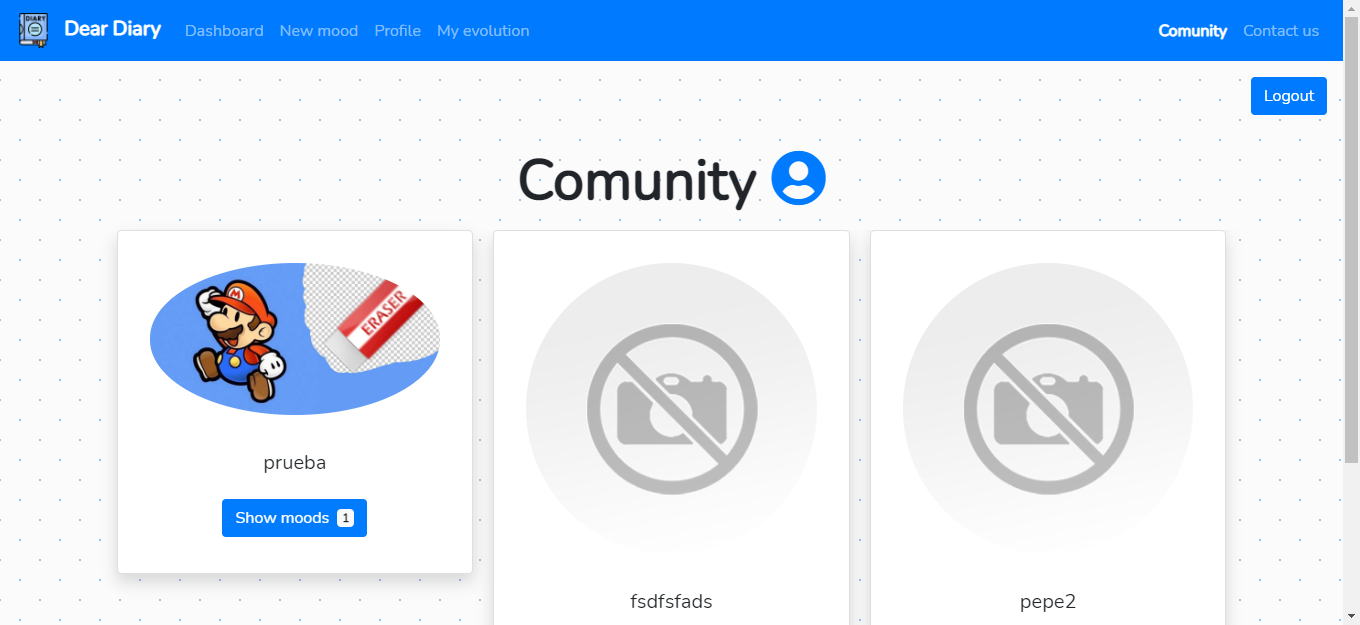
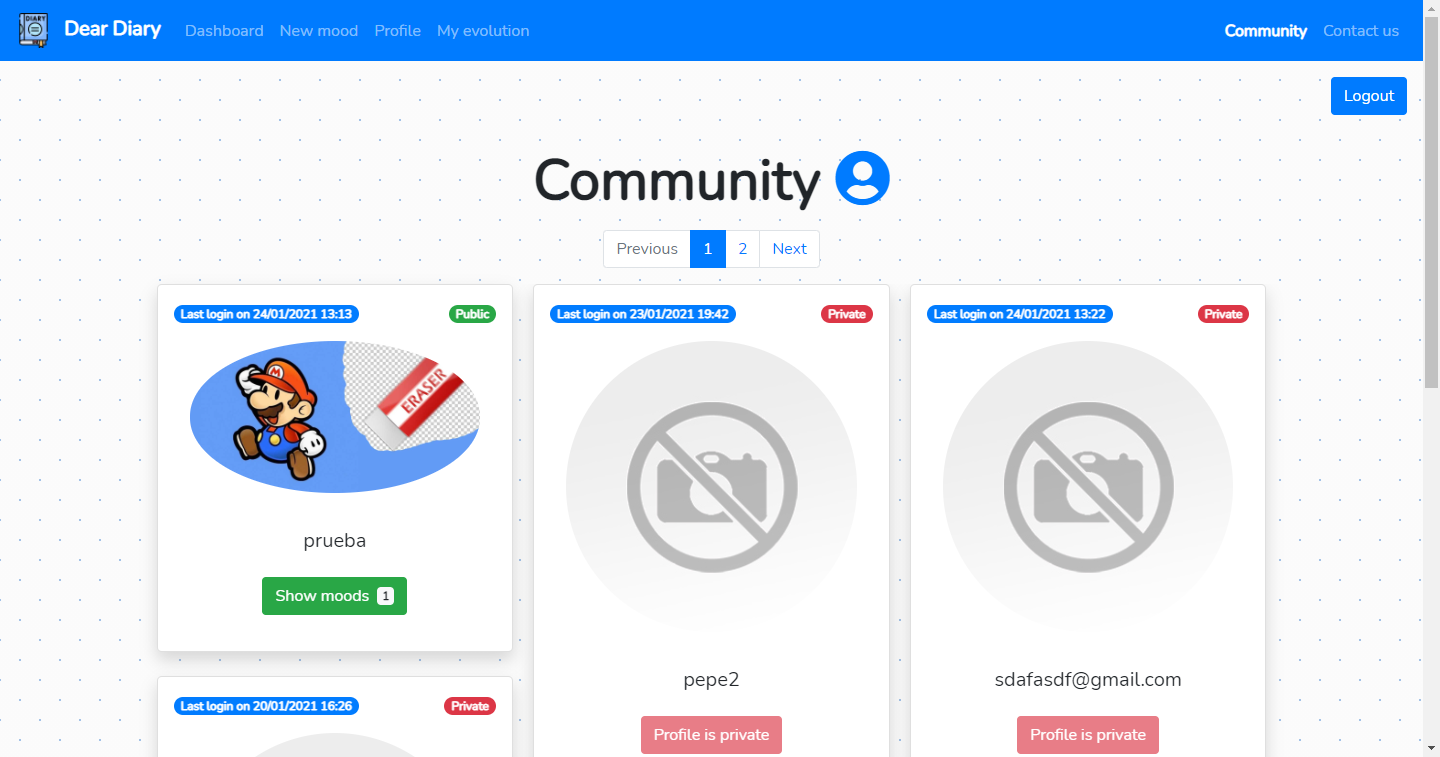
fixes: v1.2.1

diff --git a/diary/templates/diary/community.html b/diary/templates/diary/community.html
@@ -2,27 +2,43 @@
 {% load static %}
 {% load filters %}
 {% block title %}
-Dear Diary - Comunity
+Dear Diary - Community
 {% endblock %}
 
 {% block content %}
 {% include 'diary/core/navbar.html' %}
 <div class="container mt-3">
   {% if profiles|length > 0 %}
-  {% include 'diary/core/pagination.html' %}
   <h1 class="display-4 text-center font-weight-bold my-3">
     Community
     <i class="fas fa-user-circle text-primary"></i>
   </h1>
-  <div class="card-columns d-inline-block animated fadeIn mb-5">
+  {% include 'diary/core/pagination.html' %}
+  <div class="card-columns mb-5 animated fadeIn">
     {% for profile in profiles %}
-    <div class="card shadow p-3 bg-white rounded-lg">
+    <div class="card shadow p-3 mb-4 bg-white rounded-lg">
+      <div class="row">
+        <div class="col-6">
+          <div class="text-left">
+            <span class="badge badge-pill badge-primary">Last login on {{ profile.user.last_login | date:"d/m/Y H:i"}}</span>
+          </div>
+        </div>
+        <div class="col-6">
+          <div class="text-right">
+            {% if profile.public %}
+            <span class="badge badge-pill badge-success">Public</span>
+            {% else %}
+            <span class="badge badge-pill badge-danger">Private</span>
+            {% endif %}
+          </div>
+        </div>
+      </div>
       <img loading="lazy" src="{{profile.avatar.url}}" class="p-3 card-img-top rounded-circle" alt="{{profile.user}}">
       <div class="card-body">
         <h5 class="card-title text-center">{{profile.user}}</h5>
         <div class="text-center mt-4">
           {% if profile.public %}
-          <a href="{% url 'diary:community-user' profile.user.id %}" class="btn btn-primary stretched-link">Show
+          <a href="{% url 'diary:community-user' profile.user.id %}" class="btn btn-success stretched-link">Show
             moods
             <span class="badge badge-light ml-1">{{moods_count | get_mood_count:profile.user.id}}</span>
           </a>
@@ -36,10 +52,10 @@ Dear Diary - Comunity
   </div>
   {% else %}
   <div class="text-center mb-5">
-    <h1 class="display-4 font-weight-bold">No public profile yet...</h1>
+    <h1 class="display-4 font-weight-bold">No community yet...</h1>
     <div class="mx-auto text-center col-md-6 mt-5">
-      <img loading="lazy" src="{% static 'diary/img/sorry.png' %}" class="img-fluid rounded-circle"
-        alt="no profile public">
+      <img loading="lazy" src="{% static 'diary/img/sorry.webp' %}" class="img-fluid rounded-circle"
+        alt="no community yet">
     </div>
   </div>
   {% endif %}

diff --git a/diary/templates/diary/landing.html b/diary/templates/diary/landing.html
@@ -9,7 +9,7 @@ Dear Diary
   <div class="row">
     <div class="col-md-8">
       <div class="card shadow p-3 mb-5 bg-white rounded-lg animated fadeIn mx-auto">
-        <img loading="lazy" src="{% static 'diary/img/diary.jpg' %}" class="img-fluid rounded-circle" alt="diary">
+        <img loading="lazy" src="{% static 'diary/img/diary.webp' %}" class="img-fluid rounded-circle" alt="diary">
         <div class="card-body text-center">
           <h1 class="card-title display-1 font-weight-bold">Dear Diary</h1>
           <p class="card-text lead">Yesterday was an amazing day because...</p>

diff --git a/diary/templates/diary/core/base.html b/diary/templates/diary/core/base.html
@@ -10,7 +10,10 @@
   <!-- SEO -->
   <meta name="keywords" content="digital diary, dear diary">
   <meta name="description" content="Dear diary is a digital diary where you can post your sentimental moods and visualize your personal evolution">
+  <meta property="og:description" content="Dear diary is a digital diary where you can post your sentimental moods and visualize your personal evolution">
+  <link rel="canonical" href="http://dear-diary.ml">
 
+  <!-- Favicon -->
   <link rel="shortcut icon" href="{% static 'favicon/favicon.ico' %}">
 
   <!-- Bootstrap CSS -->

diff --git a/diary/templates/diary/core/footer.html b/diary/templates/diary/core/footer.html
@@ -1,5 +1,10 @@
 <footer class="mt-auto bg-primary text-white font-weight-bold text-center text-break">
-  <p class="py-2">
-    &copy {% now 'Y' %} Dear Diary - Made with <i class="fas fa-heart text-danger"></i> by Adrián Lizaga
-  </p>
+  <div class="mb-2">
+    <p class="my-2">
+      &copy {% now 'Y' %} Dear Diary - Made with <i class="fas fa-heart text-danger"></i> by Adrián Lizaga
+    </p>
+    <a class="d-block" href="https://github.com/adrianliz" target="_blank">
+      <i class="fab fa-2x fa-github text-white"></i>
+    </a>
+  </div>
 </footer>

diff --git a/diary/templates/diary/core/navbar.html b/diary/templates/diary/core/navbar.html
@@ -2,7 +2,7 @@
 
 <nav class="navbar navbar-expand-lg navbar-dark bg-primary">
   <a class="navbar-brand" href="{% url 'diary:dashboard' %}">
-    <img src="{% static 'diary/img/logo.png' %}" width="35" height="35" alt="logo" loading="lazy">
+    <img src="{% static 'diary/img/logo.webp' %}" width="35" height="35" alt="logo" loading="lazy">
     <span class="font-weight-bold ml-2">Dear Diary</span>
   </a>
   <button class="navbar-toggler" type="button" data-toggle="collapse" data-target="#navbarNav" aria-controls="navbarNav"

diff --git a/diary/templates/diary/dashboard.html b/diary/templates/diary/dashboard.html
@@ -17,7 +17,7 @@ Dear Diary - Dashboard of {{username}}
   <div class="text-center mb-5">
     <h1 class="display-4 font-weight-bold">No mood published yet...</h1>
     <div class="mx-auto text-center col-md-6 mt-5">
-      <img src="{% static 'diary/img/nocontent.jpeg' %}" class="img-fluid rounded-circle" alt="no mood published">
+      <img src="{% static 'diary/img/nocontent.webp' %}" class="img-fluid rounded-circle" alt="no mood published">
     </div>
   </div>
   {% endif %}

diff --git a/diary/views.py b/diary/views.py
@@ -212,7 +212,9 @@ class CommunityView(LoginRequiredMixin, ListView):
 
     def get_context_data(self, **kwargs):
         context = super().get_context_data(**kwargs)
-        context['moods_count'] = Mood.objects.values('user').annotate(
+        # Solo los usuarios con perfil público y que no sean el propio usuario
+        target_users = Profile.objects.exclude(user=self.request.user).filter(public=True).values('user')
+        context['moods_count'] = Mood.objects.filter(user__in=target_users).values('user').annotate(
             count=Count('user'))
         return context
 
@@ -227,6 +229,7 @@ class CommunityUserView(LoginRequiredMixin, ListView):
 
     def dispatch(self, request, *args, **kwargs):
         profile = Profile.objects.filter(user=self.kwargs['pk'])[0]
+        # No permito el acceso si el perfil no es público o es el perfil del propio usuario
         if (not profile.public) or (profile.user == request.user):
             return HttpResponseRedirect(reverse('diary:community'))
         else:

diff --git a/README.md b/README.md
@@ -137,3 +137,4 @@ mejoras en el renderizado de los formularios y redirección del usuario en Landi
 ![v1.2.0](screenshots/v1.2.0_sortby.png)
 ![v1.2.0](screenshots/v1.2.0_profile.png)
 ![v1.2.0](screenshots/v1.2.0_community.png)
+- [:white_check_mark:] v1.2.1 -> corrección de erratas, mejorado del diseño responsive y la carga de imágenes (formato webp)
